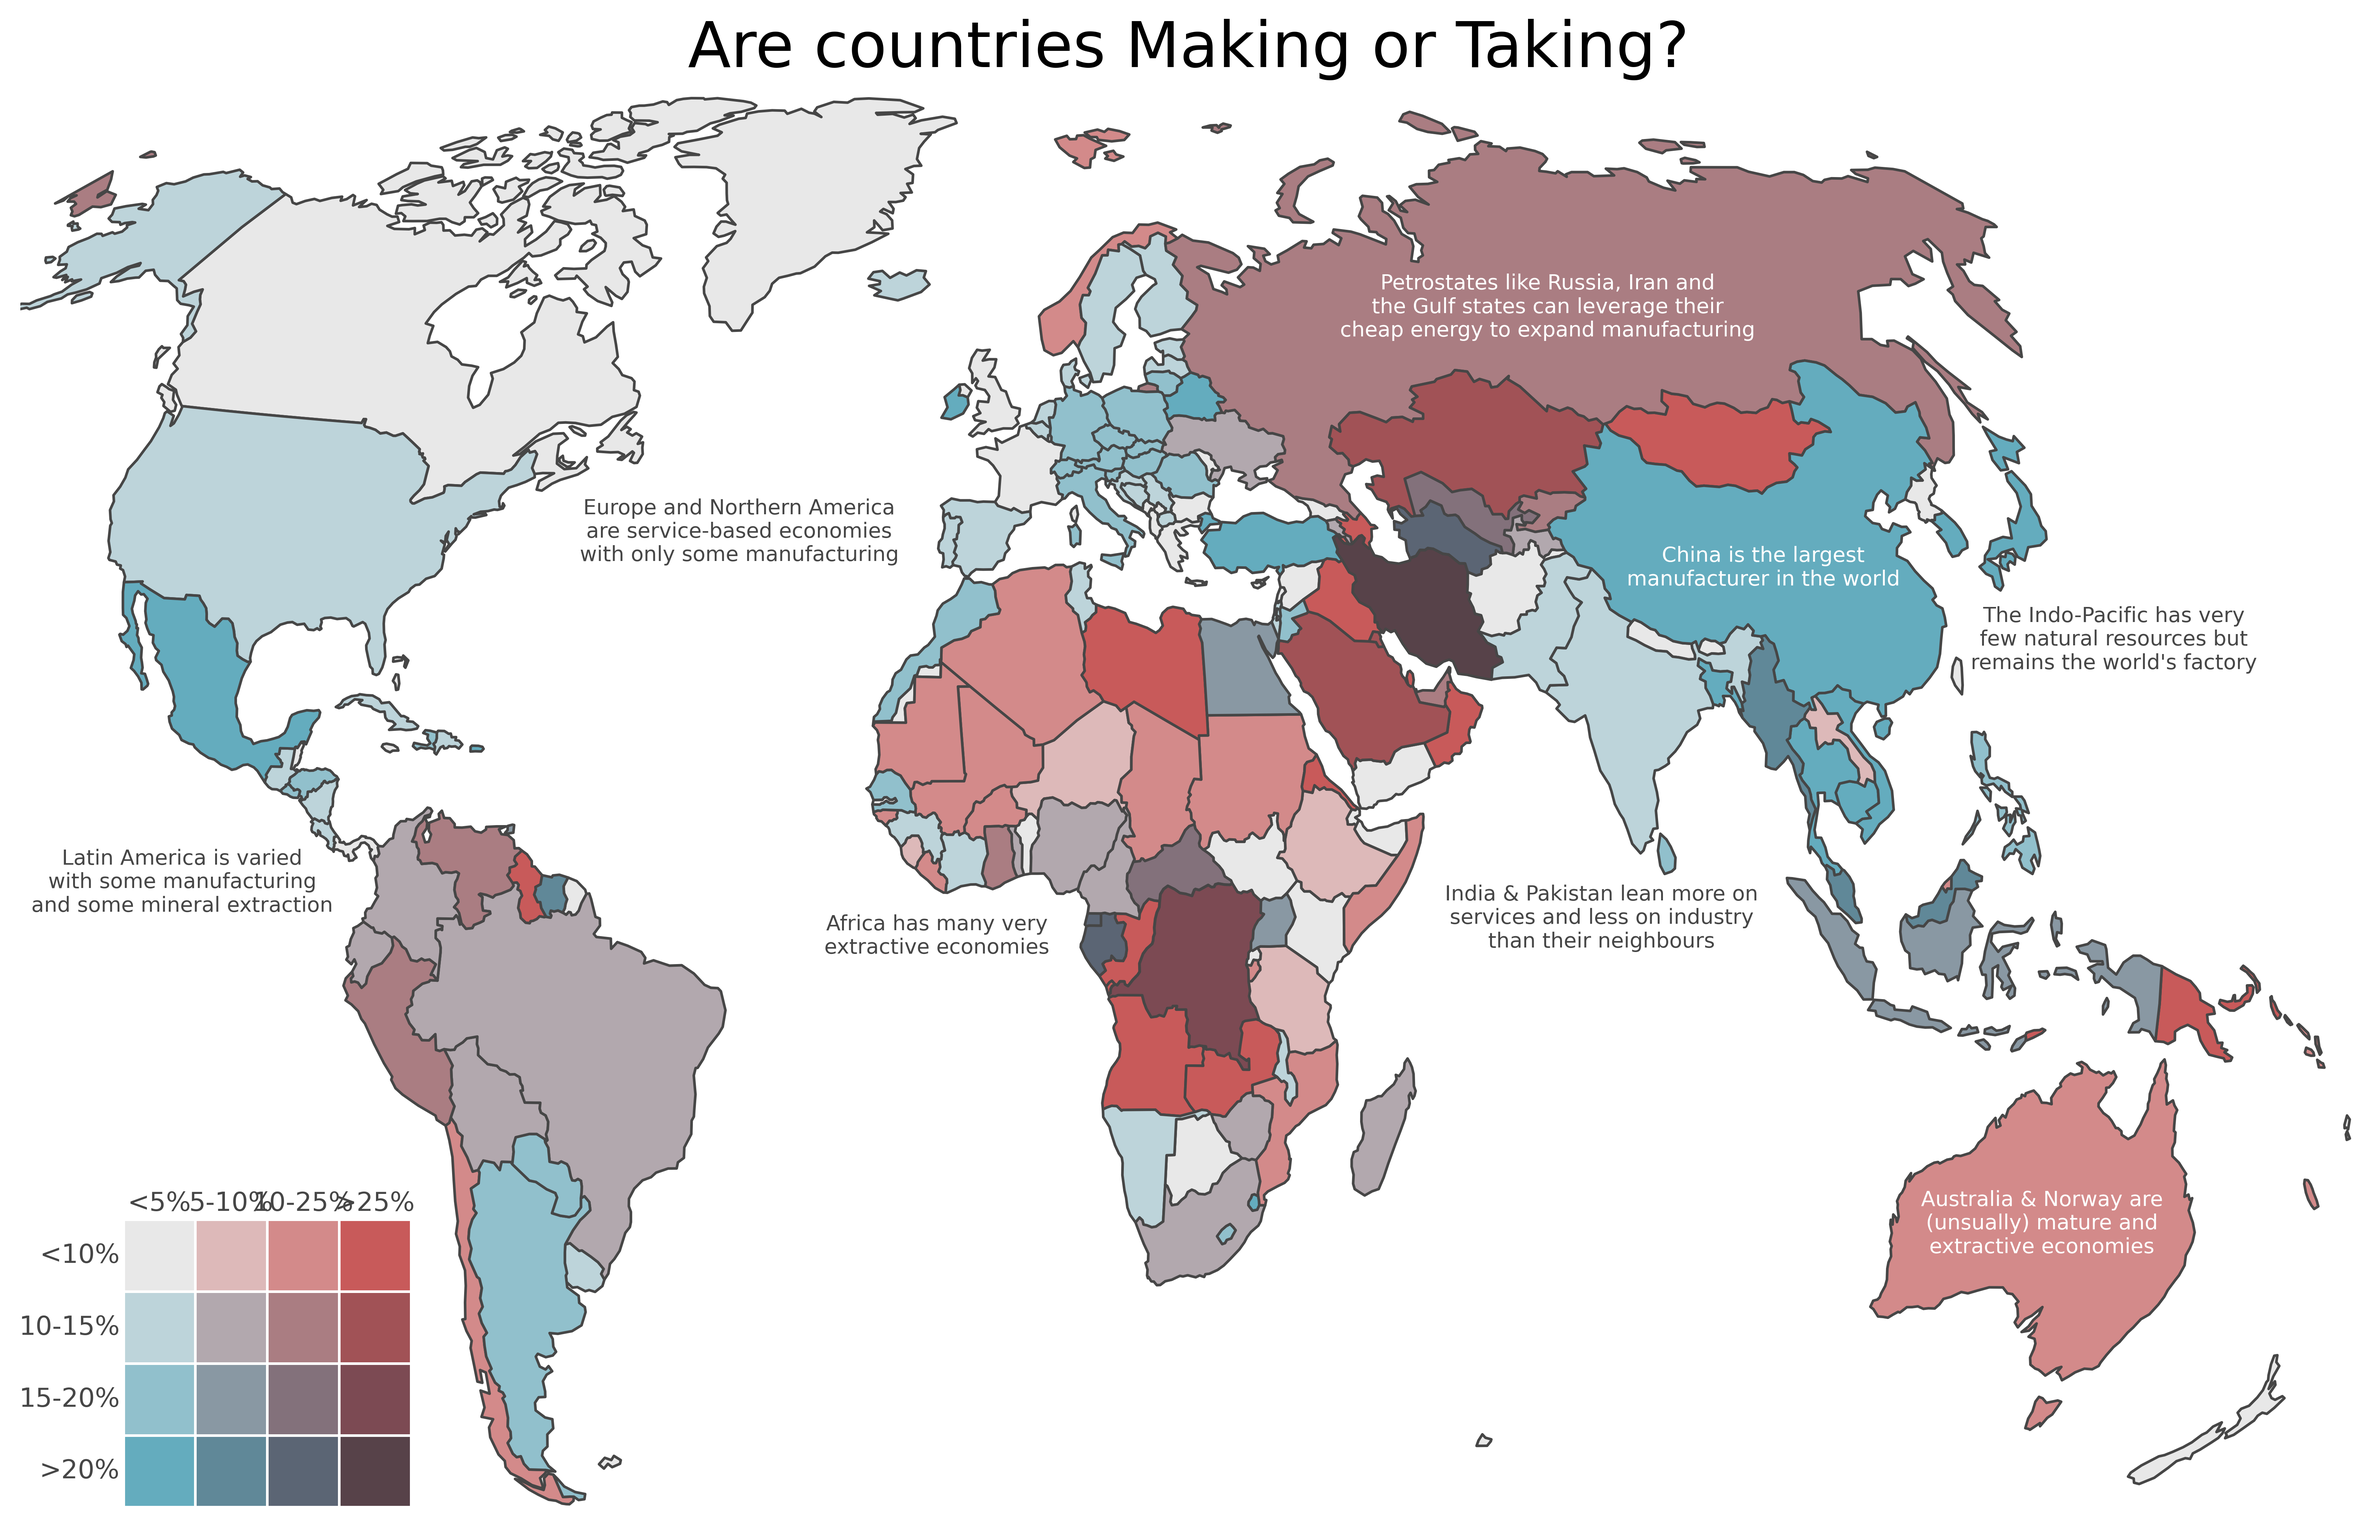
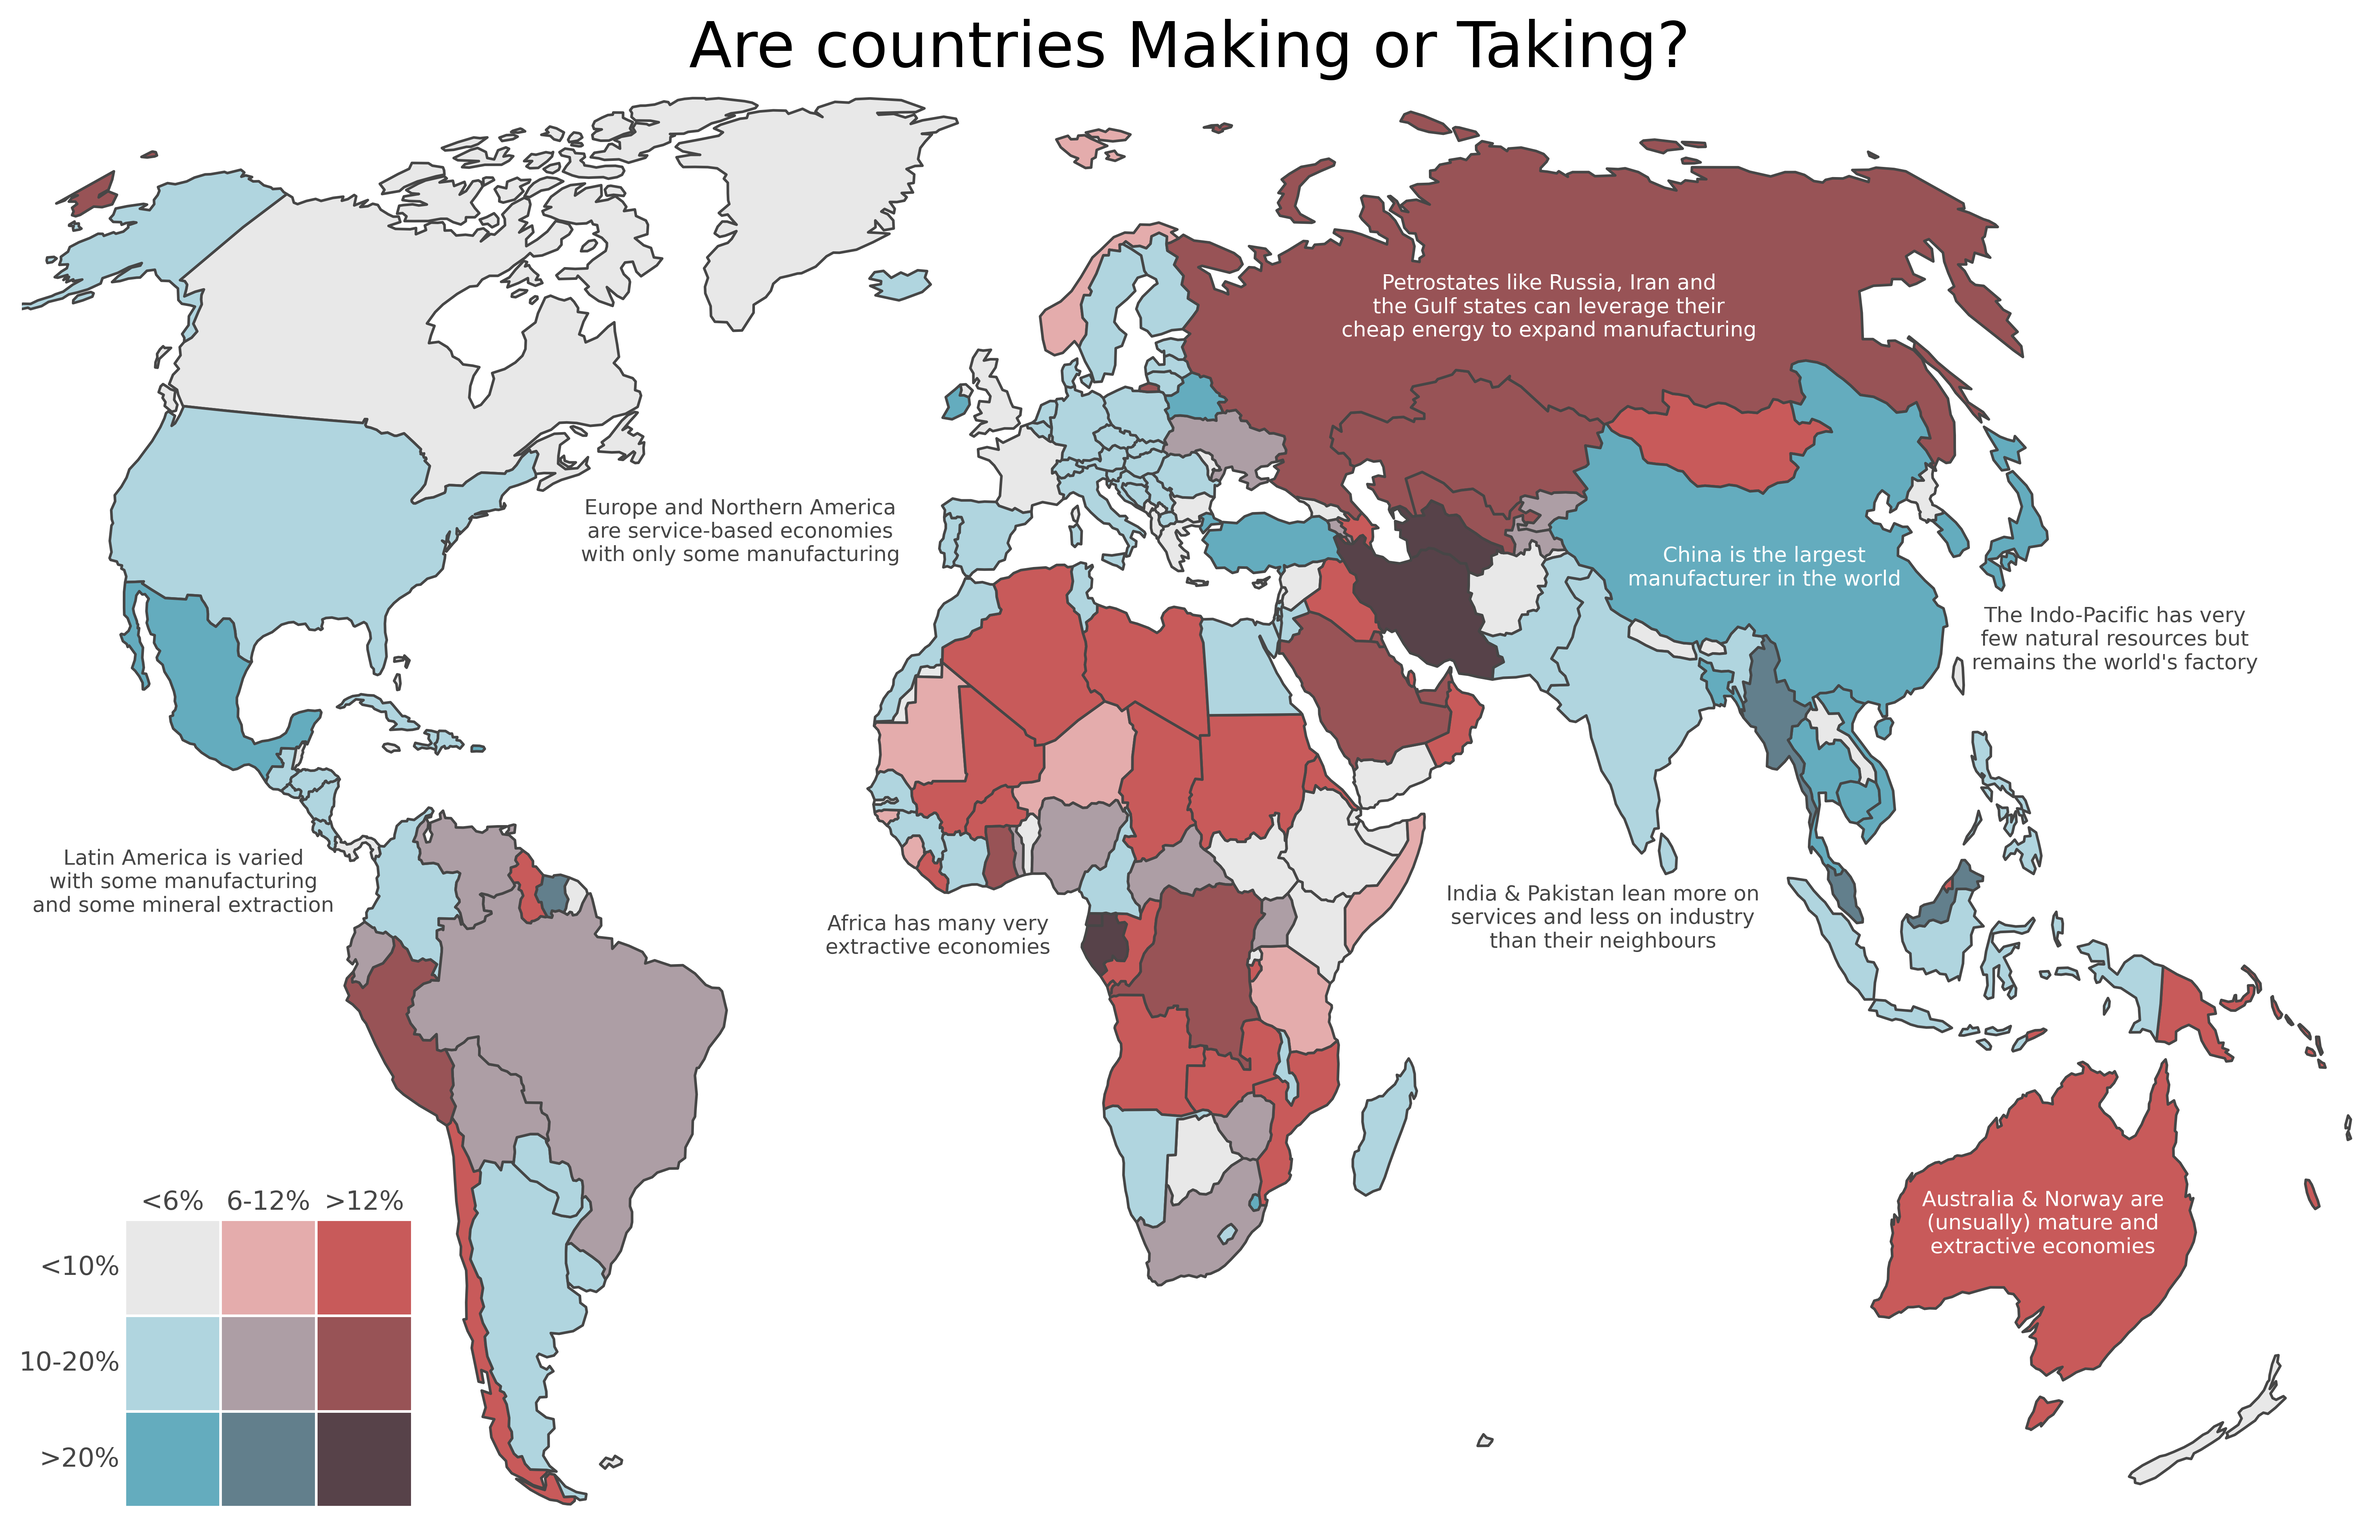
3x3 version

diff --git a/scripts/ResourcesManufacturing.py b/scripts/ResourcesManufacturing.py
@@ -14,22 +14,22 @@ INDICATORS = {
     'NY.GDP.TOTL.RT.ZS': 'ResourceRents_pct'
 }
 CACHE_FILE = f"cache/resource_manufacturing_{DATA_YEAR}.pkl"
-# COLORS = [
-#     "#e8e8e8", "#e4acac", "#c85a5a",
-#     "#b0d5df", "#ad9ea5", "#985356",
-#     "#64acbe", "#627f8c", "#574249",
-# ]
 COLORS = [
-    "#e8e8e8", "#ddb9b9", "#d38a8a", "#c85a5a",
-    "#bdd4da", "#b2a8ae", "#aa7d82", "#a15256",
-    "#91c0cc", "#8998a3", "#83717b", "#7c4a53",
-    "#64acbe", "#608898", "#5b6574", "#574249",
+    "#e8e8e8", "#e4acac", "#c85a5a",
+    "#b0d5df", "#ad9ea5", "#985356",
+    "#64acbe", "#627f8c", "#574249",
 ]
+# COLORS = [
+#     "#e8e8e8", "#ddb9b9", "#d38a8a", "#c85a5a",
+#     "#bdd4da", "#b2a8ae", "#aa7d82", "#a15256",
+#     "#91c0cc", "#8998a3", "#83717b", "#7c4a53",
+#     "#64acbe", "#608898", "#5b6574", "#574249",
+# ]
 ANNO_COLOR = "#464646"
 
 EPS = 0.000000001
-MAN_BINS = [-EPS, 10, 15, 20, 100 + EPS]
-RES_BINS = [-EPS, 5, 10, 25, 100 + EPS]
+MAN_BINS = [-EPS, 10, 20, 100 + EPS]
+RES_BINS = [-EPS, 6, 12, 100 + EPS]
 
 OLDER_DATA = [  # Manufacturing, resources
     ("VEN", "Venezuela", 12.0, 11.8),
@@ -84,7 +84,7 @@ def assign_bivariate_class(row, man_bins, res_bins):
     """Assign a bivariate class (0-15) based on discretized values."""
     man_cat = np.digitize(row['Manufacturing_pct'], man_bins)
     res_cat = np.digitize(row['ResourceRents_pct'], res_bins)
-    return (man_cat - 1) * 4 + (res_cat - 1)  # Classes 0-15
+    return (man_cat - 1) * 3 + (res_cat - 1)  # Classes 0-15
 
 def create_legend(ax, colors, man_bins, res_bins):
     """Create a 3x3 bivariate legend grid with ranges labeled inside each cell."""
@@ -104,7 +104,7 @@ def create_legend(ax, colors, man_bins, res_bins):
     for i in range(res_length):
         for j in range(man_length):
             color_idx = i * res_length + j
-            legend_ax.add_patch(plt.Rectangle((j, 3-i), 1, 1, facecolor=colors[color_idx], edgecolor='white'))
+            legend_ax.add_patch(plt.Rectangle((j, res_length-1-i), 1, 1, facecolor=colors[color_idx], edgecolor='white'))
 
     # Add column labels (top)
     for j, label in enumerate(labels[0]):
